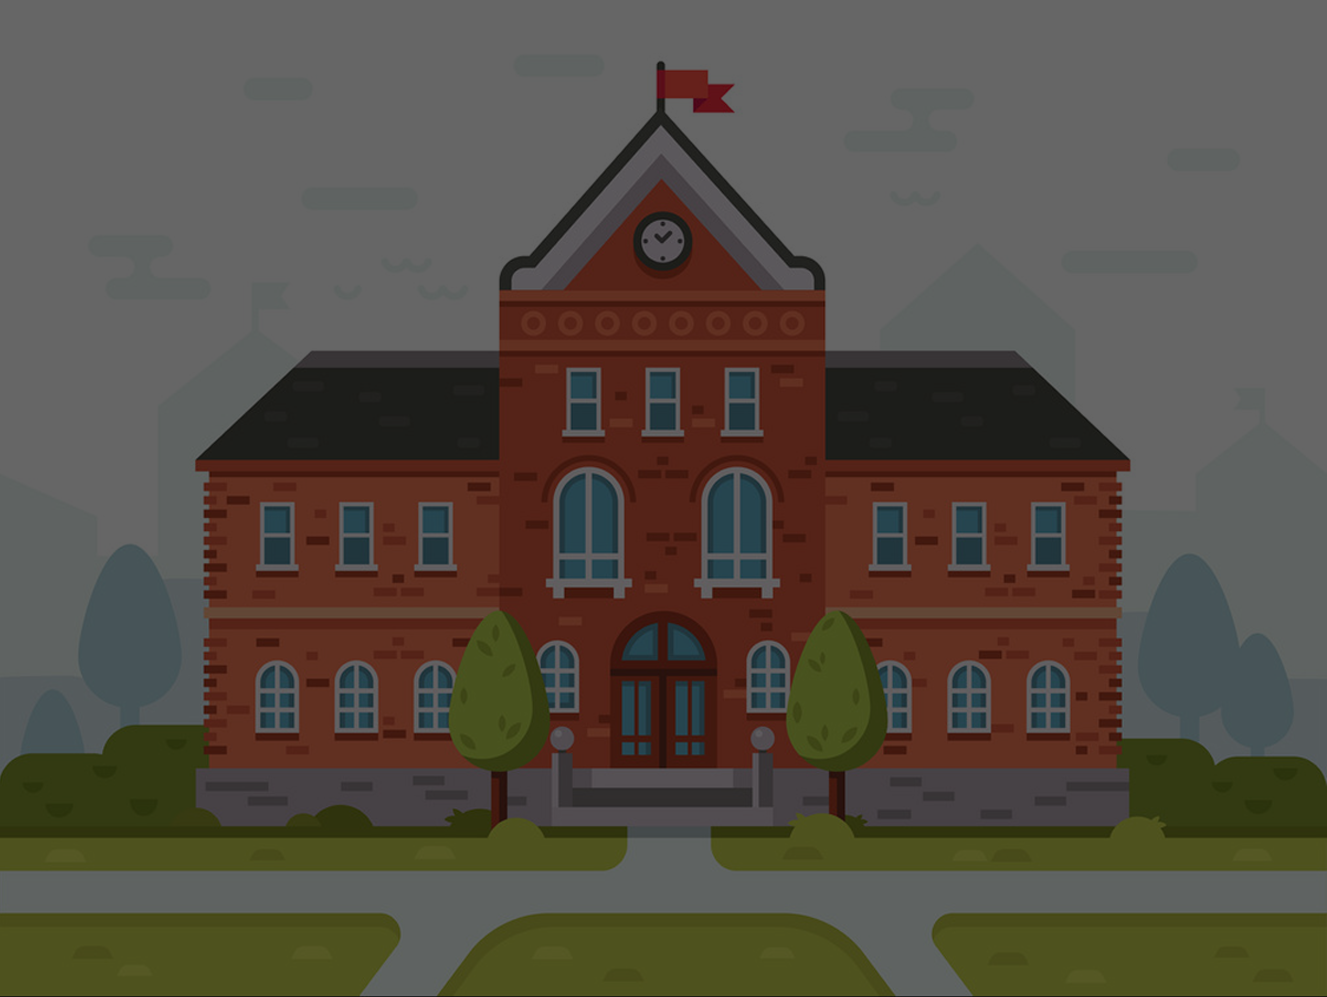
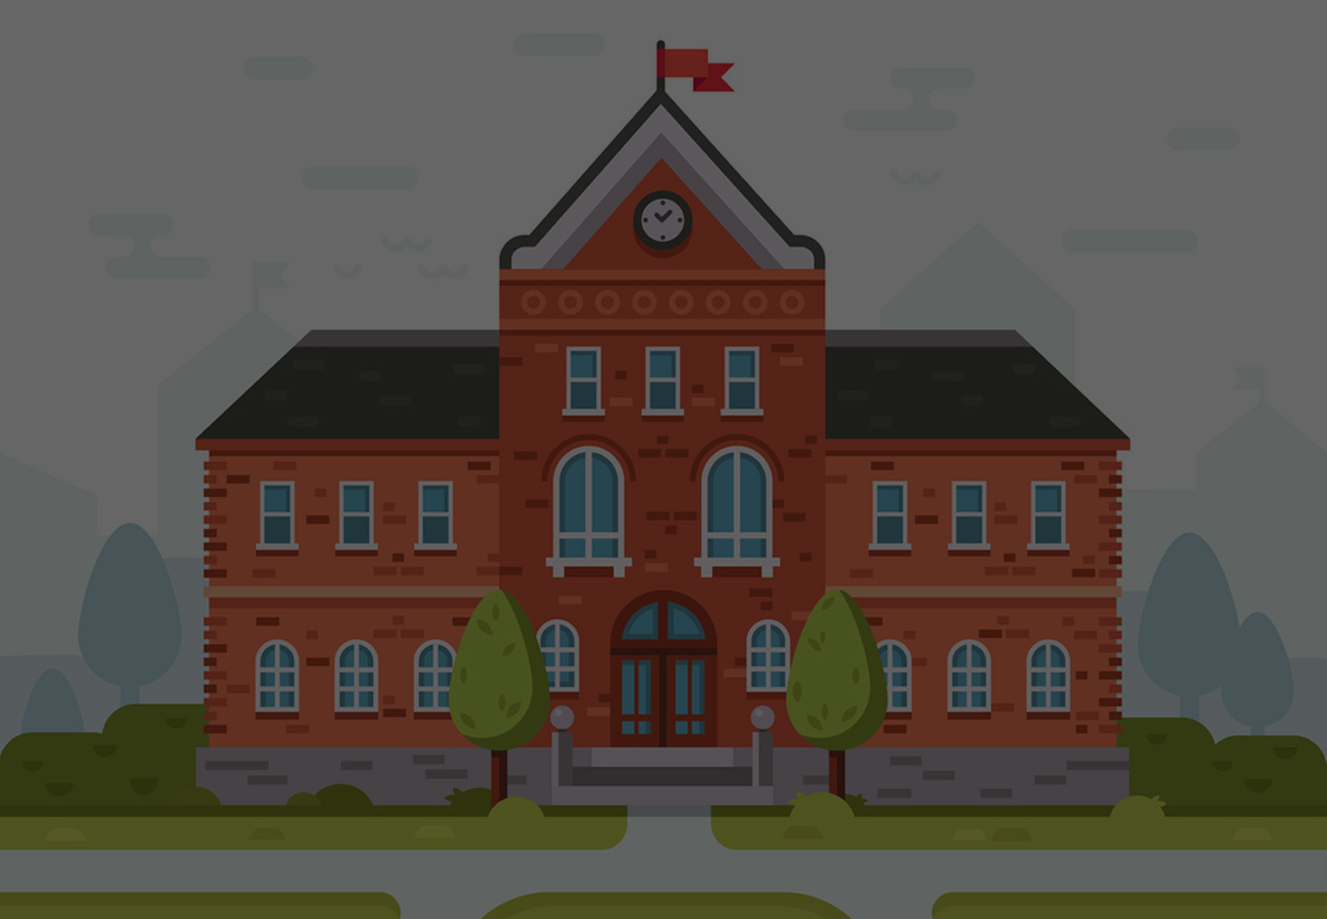
improved responsitivity

diff --git a/src/screens/main.js b/src/screens/main.js
@@ -12,6 +12,7 @@ import './main.css'
 
 function MainScreen() {
 	const [displayIndicators, setDisplayIndicators] = useState(false)
+	const [background, setBackground] = useState(0)
 	const [isLoading, setIsLoading] = useState(false)
 	const [health, setHealth] = useState(80)
 	const [education, setEducation] = useState(60)
@@ -125,6 +126,7 @@ function MainScreen() {
 				setMoney(1000)
 				setFriends(50)
 				setAge(0)
+				setBackground(0)
 				setDisplayIndicators(false)
 				setCurrentQuestion('titlescreen')
 			},
@@ -290,6 +292,7 @@ function MainScreen() {
 				text: 'Universidade Federal (★★★★★)',
 				consequence: () => {
 					if (education >= 95) {
+						setBackground(1)
 						setAge(1)
 						setCurrentQuestion('clickgame')
 					}
@@ -299,6 +302,7 @@ function MainScreen() {
 				text: 'Universidade Particular (★★★★)',
 				consequence: () => {
 					setAge(1)
+					setBackground(1)
 					setIndicator('money', -20000)
 					setCurrentQuestion('clickgame')
 				},
@@ -307,6 +311,7 @@ function MainScreen() {
 				text: 'Faculdade Pública (★★★)',
 				consequence: () => {
 					setAge(1)
+					setBackground(1)
 					setCurrentQuestion('clickgame')
 				},
 			},
@@ -314,6 +319,7 @@ function MainScreen() {
 				text: 'Não fazer faculdade (★)',
 				consequence: () => {
 					setAge(1)
+					setBackground(2)
 					setCurrentQuestion('7')
 				},
 			},
@@ -640,6 +646,7 @@ function MainScreen() {
 				'A faculdade chegou ao fim. Agora está na hora de se tornar um adulto de verdade.',
 			consequence: () => {
 				setAge(2)
+				setBackground(2)
 				setIndicator('health', 8)
 				setIndicator('education', 10)
 				setCurrentQuestion('buscaporempregos')
@@ -1216,9 +1223,9 @@ function MainScreen() {
 		<div
 			class='root'
 			style={{
-				backgroundImage: `url(${backdrops[2]})`,
+				backgroundImage: `url(${backdrops[background]})`,
 				backgroundRepeat: 'no-repeat',
-				height: '100vh',
+				backgroundSize: 'cover',
 				backgroundPosition: 'center',
 			}}
 		>
@@ -1235,7 +1242,9 @@ function MainScreen() {
 			{isLoading ? (
 				<img class='loadinggif' src={loading} alt='loadingGif' />
 			) : null}
-			<img class='buxlogo' src={buxlogo}></img>
+			<a href='https://buxbank.com.br'>
+				<img class='buxlogo' src={buxlogo} alt='logo-bux' />
+			</a>
 		</div>
 	)
 }

diff --git a/src/components/questions.js b/src/components/questions.js
@@ -8,15 +8,21 @@ export default function Question(props) {
 			<header class='header'>{props.question}</header>
 			<div class='questionContainer'>
 				<div class='buttonContainer'>
-					<Button style={{ height: '5vh' }} onClick={props.option1.consequence}>
+					<Button
+						style={{ height: 'max-content' }}
+						onClick={props.option1.consequence}
+					>
 						{props.option1.text}
 					</Button>
-					<Button style={{ height: '5vh' }} onClick={props.option2.consequence}>
+					<Button
+						style={{ height: 'max-content' }}
+						onClick={props.option2.consequence}
+					>
 						{props.option2.text}
 					</Button>
 					{props.option3 ? (
 						<Button
-							style={{ height: '5vh' }}
+							style={{ height: 'max-content' }}
 							onClick={props.option3.consequence}
 						>
 							{props.option3.text}
@@ -24,7 +30,7 @@ export default function Question(props) {
 					) : null}
 					{props.fourthQuestion ? (
 						<Button
-							style={{ height: '5vh' }}
+							style={{ height: '5vh', overflow: 'auto' }}
 							onClick={props.option4.consequence}
 						>
 							{props.option4.text}

diff --git a/src/minigames/memory/app.scss b/src/minigames/memory/app.scss
@@ -2,11 +2,11 @@
   font-weight: 600;
   text-transform: uppercase;
 }
-.App {
+.MemoryApp {
+  margin-top: 10vh;
   width:100%;
   height: 100%;
   color: white;
-  background-color: darkcyan;
 
   display: flex;
   flex-direction: column;

diff --git a/src/minigames/memory/App.js b/src/minigames/memory/App.js
@@ -133,7 +133,7 @@ export default function App(props) {
 	}
 
 	return (
-		<div className='App'>
+		<div className='MemoryApp'>
 			<header>
 				<h3 style={{ color: 'white' }}>Chegou a hora da prova!</h3>
 				<div>

diff --git a/src/minigames/memory/styles.css b/src/minigames/memory/styles.css
@@ -1,5 +1,4 @@
-.App {
+.MemoryApp {
   font-family: sans-serif;
   text-align: center;
-  background-color: darkcyan;
 }
